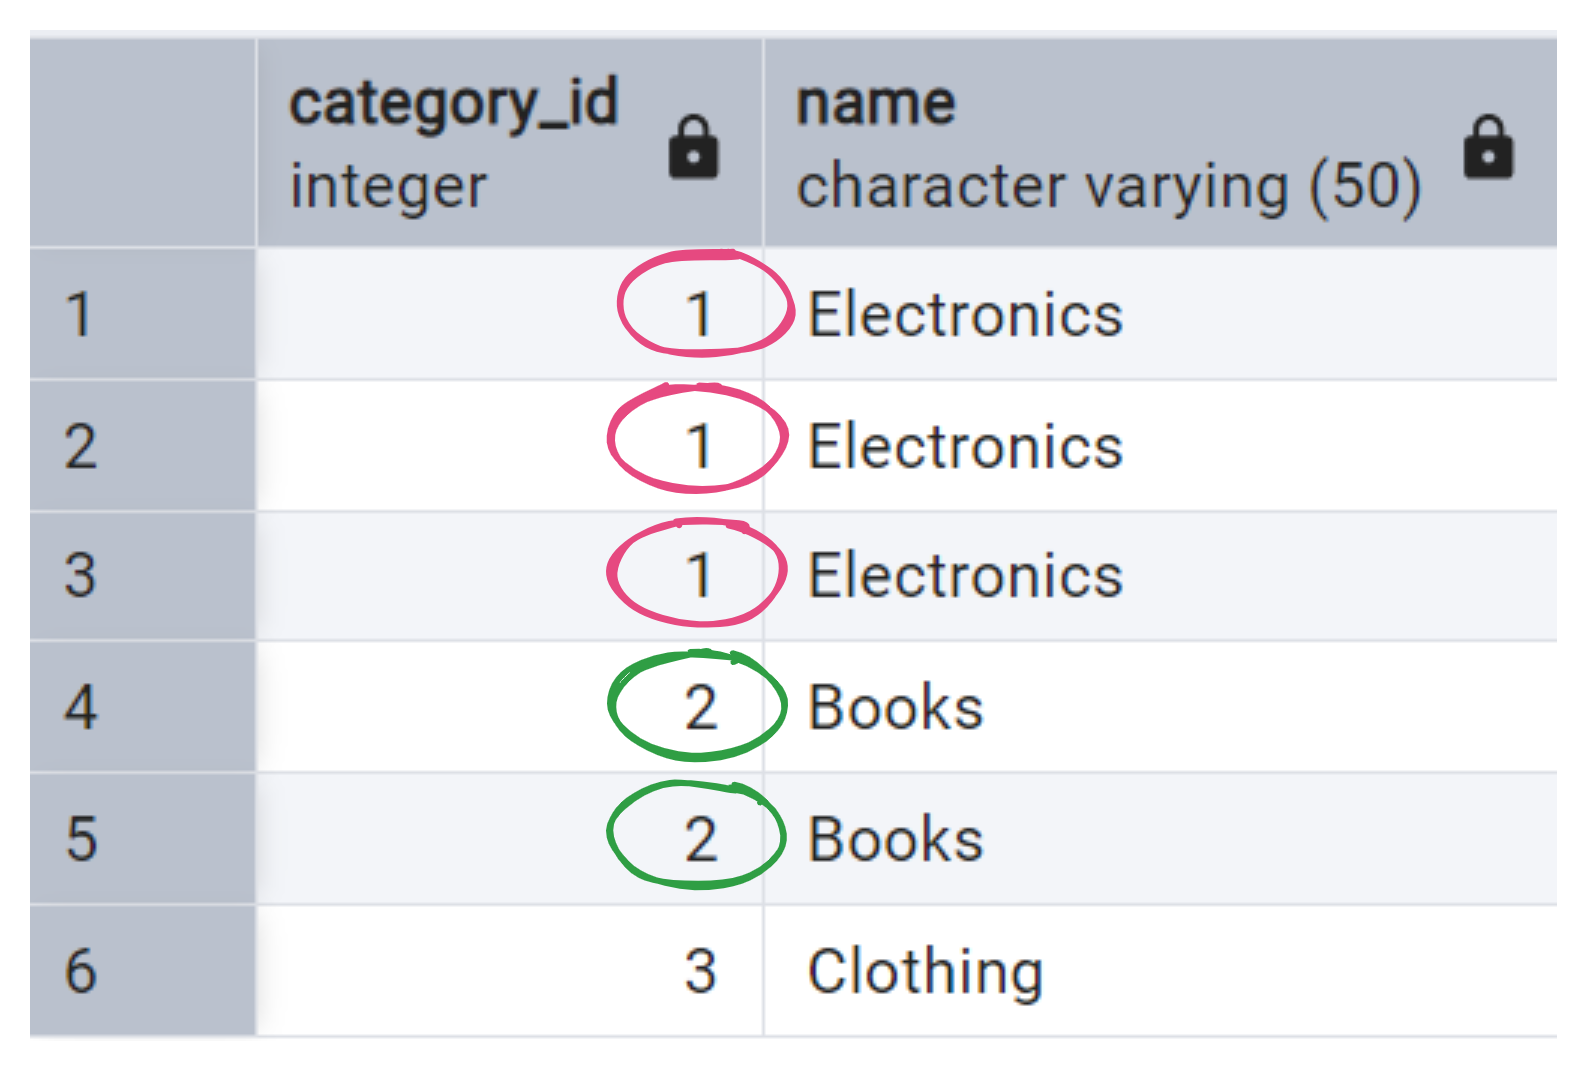
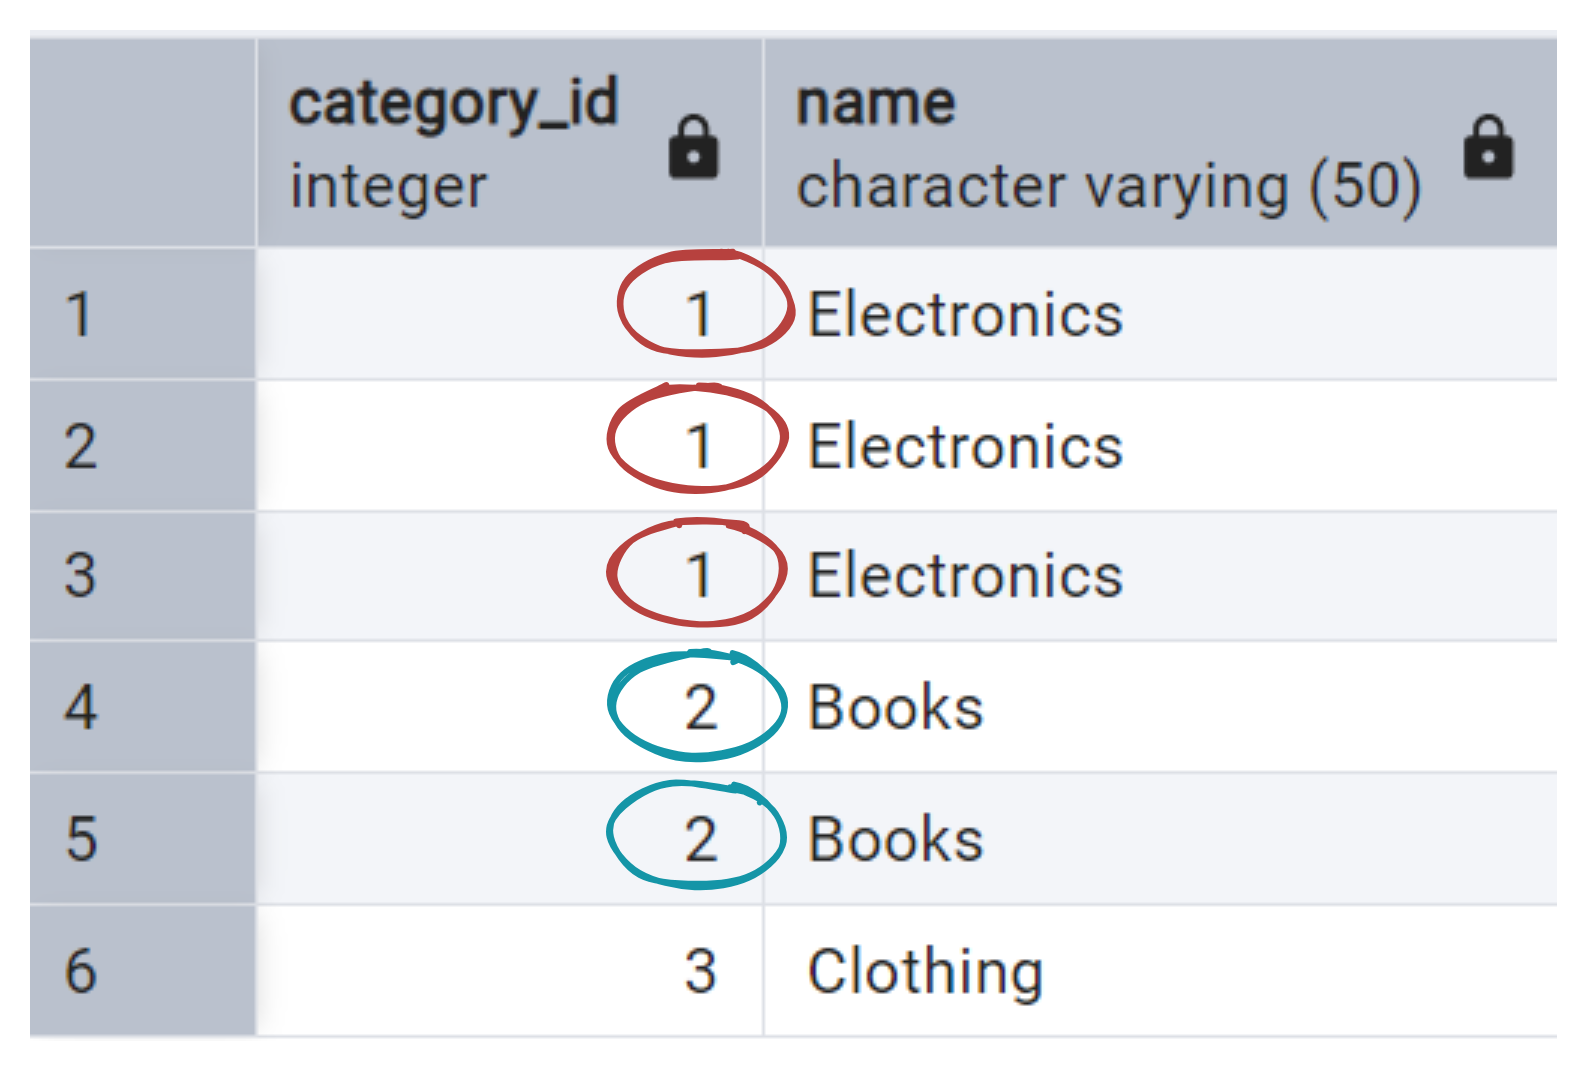
Change images using more suitable colors.

diff --git a/collections/_posts/2025-03-24-more-sql-queries-for-duplicates-and-missing-values.md b/collections/_posts/2025-03-24-more-sql-queries-for-duplicates-and-missing-values.md
@@ -2,11 +2,11 @@
 date: 2025-03-24 11:19:00 +0300
 title: "More SQL: Queries for Duplicates and Missing Values"
 description: "When faced with real-world, less-than-perfect data..."
-tags: [SQL]
-image: "/images/posts/post-5/overview-duplicates-and-missing.png"
+tags: [SQL, data]
+image: "/images/posts/post-5/cover.png"
 ---
 
-Some of the courses I tried in data analytics use clean data to work with, which is nice yet utopian :) That's why whenever I see data cleaning mentioned somewhere, I'm all ears.
+Some of the courses I've tried in data analytics use clean data to work with, which is nice, yet utopian :) That's why whenever I see 'data cleaning' mentioned somewhere, I'm all ears.
 
 As far as I know now, there are three types of data that need to be checked during Data Cleaning process:
 
@@ -134,6 +134,10 @@ ORDER BY category_id;
 
 ![Screenshot - check if duplicates are deleted, final output](/images/posts/post-5/duplicates-04-final-result.png){: .center width="400" height="auto"}
 
+<p style="text-align: center;">Yay.</p>
+
+---
+
 ### Check for Missing Data
 
 Now, consider a table like this:
@@ -151,13 +155,13 @@ WHERE name IS NULL;
 
 <p></p>
 
-![Screenshot - output for checking for missing values](/images/posts/post-5/missing-values-01-check.png){: .center width="250" height="auto"}
+![Screenshot - output for checking for missing values](/images/posts/post-5/missing-values-01-check.png){: .center width="400" height="auto"}
 
 BUT
 
-Wait, where is the 5th row? It is obviously missing some data as well?
+Wait, where is the 5th row? It is obviously missing some data as well!
 
-In SQL, NULL represents true absence, while an empty string '' is technically a value — just an empty one. As well as zero. Well, with 0 it's more straightforward — it does take space even for the naked eye, and it is a value. Meanwhile, empty strings can sneak around unnoticed.
+In SQL, NULL represents true absence, while an empty string `""` is technically a value — just an empty one. As well as zero. Well, with `0` it's more straightforward — it does take space even for the naked eye, and it is a value. Meanwhile, empty strings can sneak around unnoticed.
 
 So, we need to modify our query a bit:
 
@@ -190,9 +194,9 @@ WHERE name IS NULL OR TRIM(name) = '';
 Once found, **what to do with them?**
 
 - delete
-- replace (for example, fill them in with 'n/a' or averages)
+- replace (for example, fill them in with "n/a" or averages)
 
-I saw a comment that regression can be used to predict values. Haven't tried it yet, but sounds interesting.
+I’ve also heard regression can be used to predict missing values — but that’s a more advanced topic for another day.
 
 Until next time.
 
